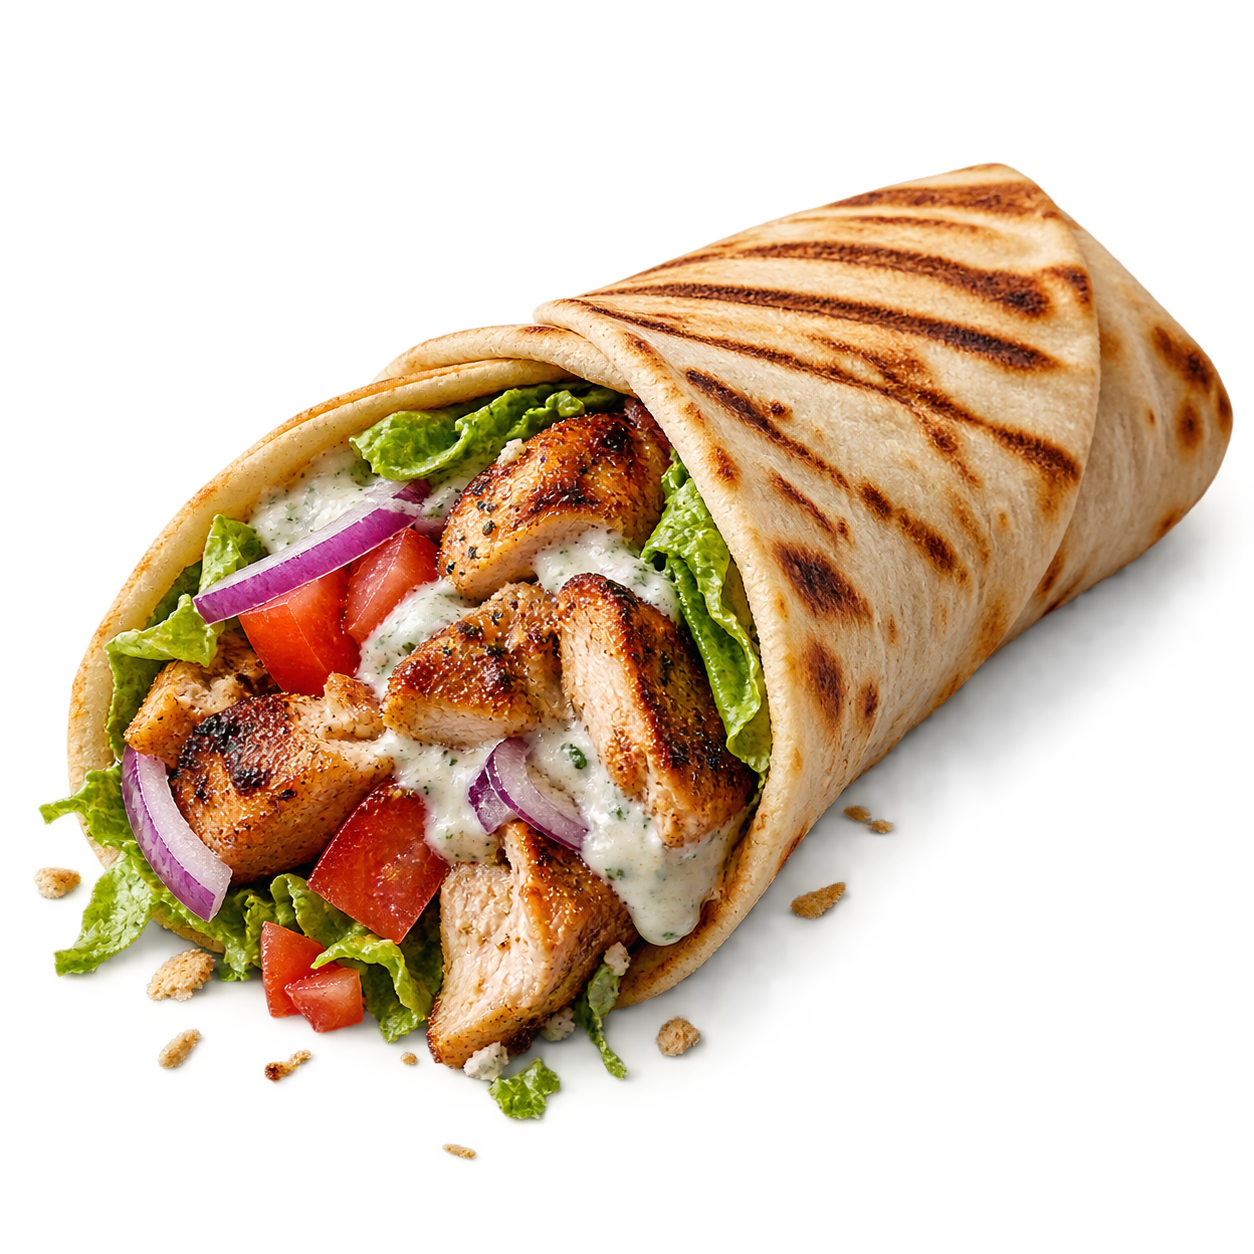
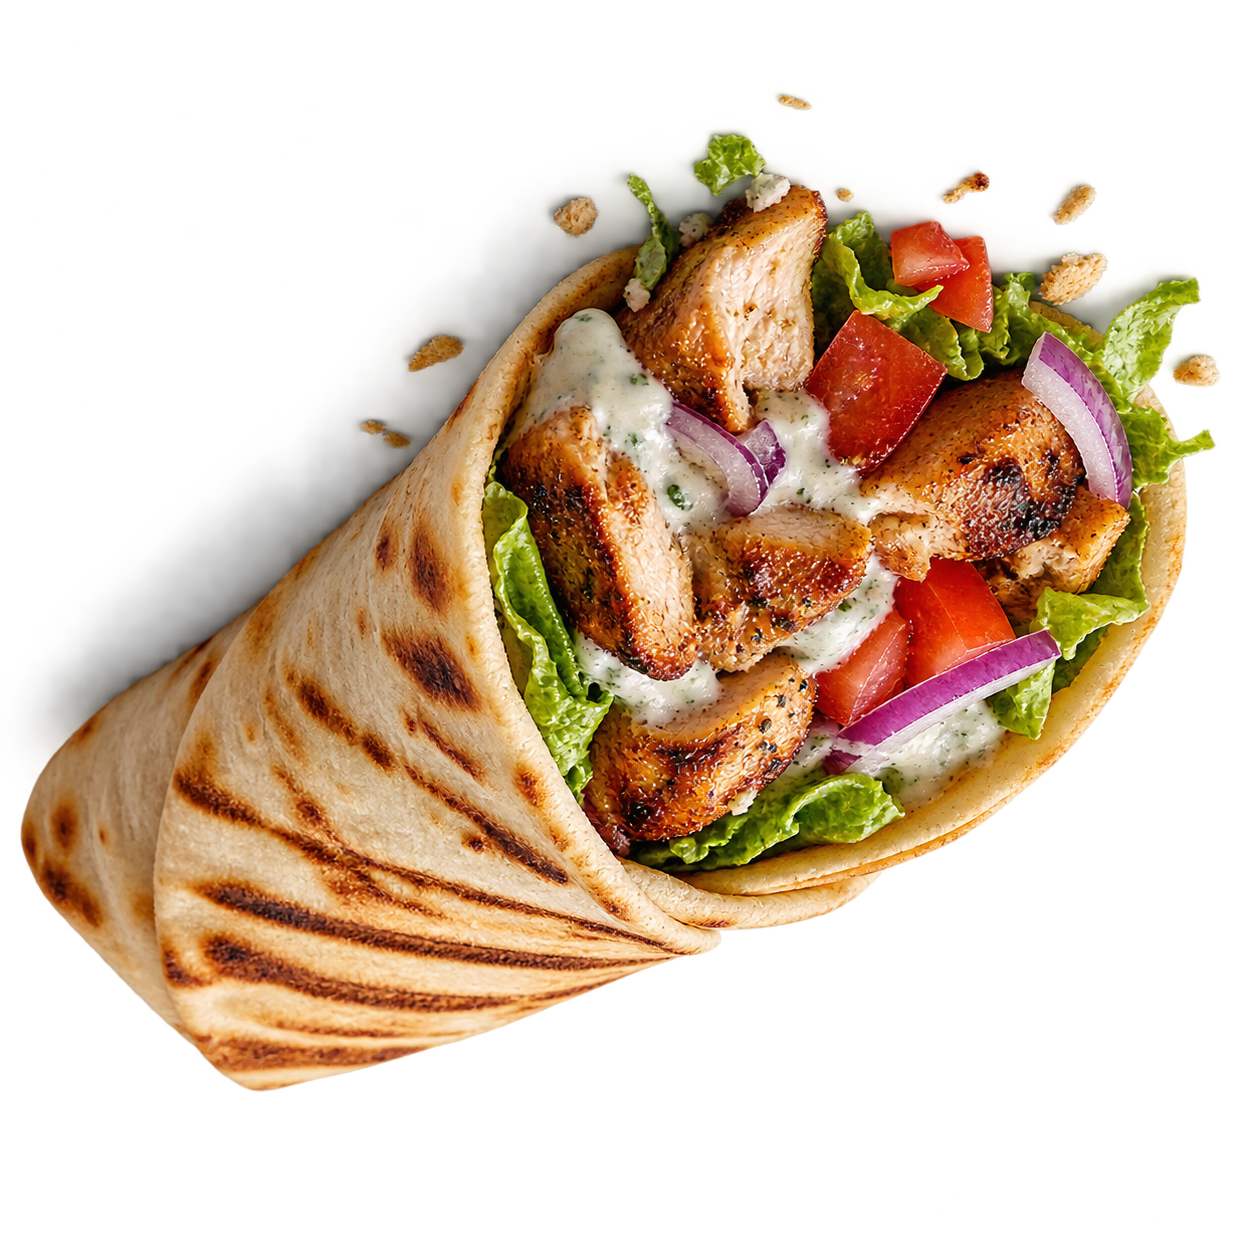
gg

diff --git a/src/components/sections/Hero.tsx b/src/components/sections/Hero.tsx
@@ -16,13 +16,13 @@ export function Hero() {
     <span className="hero-crumb right-[7%] top-[22%] h-2 w-5 rotate-45 bg-white/80" aria-hidden="true"/>
     <span className="hero-crumb right-[43%] top-[18%] h-2 w-2 bg-primary" aria-hidden="true"/>
     <svg className="absolute right-[4%] top-[16%] z-50 hidden h-16 w-24 text-primary lg:block" viewBox="0 0 96 64" fill="none" aria-hidden="true"><path d="M5 45c19-30 44-36 82-29M14 57c20-20 39-25 68-23" stroke="currentColor" strokeWidth="5" strokeLinecap="round"/></svg>
-    <img src="/images/hero/hero-wrap.png" alt="" aria-hidden="true" className="pointer-events-none absolute bottom-[112px] left-[-45px] z-10 w-[125px] -rotate-[8deg] object-contain drop-shadow-[0_16px_14px_rgba(59,42,33,.16)] sm:-bottom-5 sm:-left-40 sm:w-64 sm:rotate-12 lg:-bottom-20 lg:-left-48 lg:w-[360px]"/>
+    <img src="/images/hero/hero-wrap.png" alt="" aria-hidden="true" className="pointer-events-none absolute bottom-[105px] left-[-50px] z-10 w-[145px] rotate-0 object-contain drop-shadow-[0_16px_14px_rgba(59,42,33,.16)] sm:-bottom-5 sm:-left-40 sm:w-64 sm:rotate-12 lg:-bottom-20 lg:-left-48 lg:w-[360px]"/>
     <img src="/images/hero/hero-fries.png" alt="" aria-hidden="true" className="pointer-events-none absolute right-[-10px] top-[85px] z-10 w-[150px] -rotate-6 object-contain drop-shadow-[0_16px_14px_rgba(59,42,33,.14)] sm:-right-32 sm:top-24 sm:w-52 sm:-rotate-12 lg:-right-48 lg:top-36 lg:w-[330px]"/>
 
     <div className="relative z-30 mx-auto grid max-w-7xl grid-cols-1 px-5 lg:grid-cols-[.82fr_1.18fr] lg:grid-rows-[auto_1fr] lg:gap-x-4 lg:px-8">
       <div className="relative min-w-0 animate-fade-up pt-5 sm:pt-8 lg:row-start-1 lg:pt-12">
         <p className="mb-4 text-xs font-extrabold tracking-[.18em] text-primary sm:text-sm">{restaurant.hero.eyebrow}</p>
-        <h1 className="hero-mobile-word pointer-events-none absolute left-[45%] top-12 z-0 -translate-x-1/2 whitespace-nowrap font-display text-[clamp(4rem,17vw,5rem)] font-black leading-none lg:hidden">{restaurant.hero.heading}</h1>
+        <h1 className="hero-mobile-word pointer-events-none absolute left-1/2 top-12 z-0 -translate-x-1/2 whitespace-nowrap font-display text-[clamp(4rem,17vw,5rem)] font-black leading-none lg:hidden">{restaurant.hero.heading}</h1>
         <h1 className="hidden font-display font-black leading-[.82] tracking-[-.045em] text-white lg:block lg:text-[clamp(4.3rem,5.7vw,5.8rem)]">{restaurant.hero.heading}<span className="mt-2 block text-primary"><span className="block whitespace-nowrap">{highlightedLead}</span><span className="block">{finalWord}</span></span></h1>
       </div>
 
